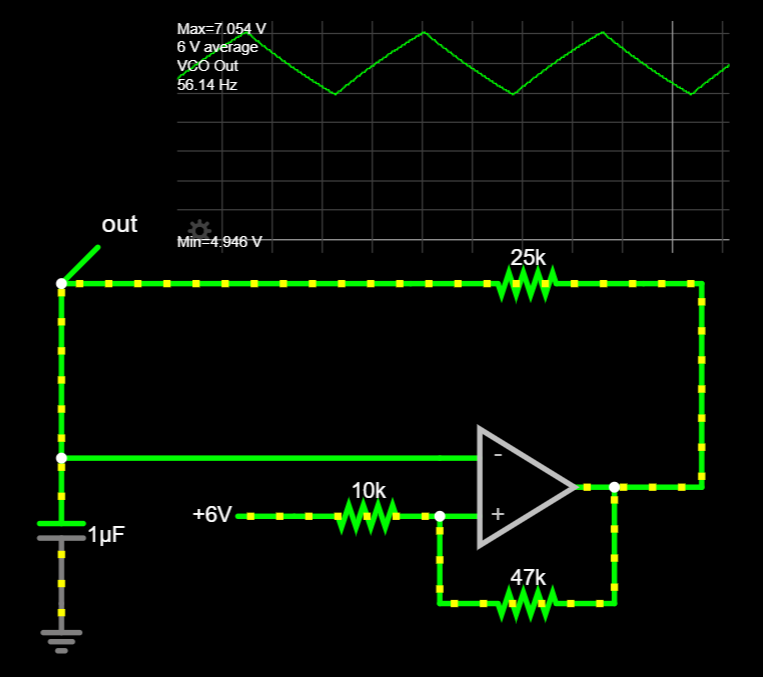
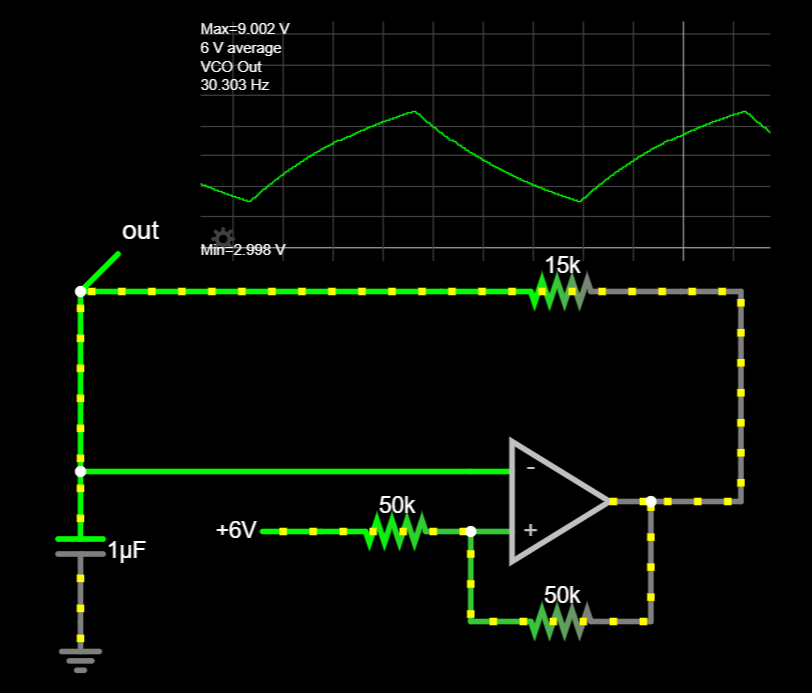
triangle osc done

diff --git a/index.md b/index.md
@@ -1,14 +1,21 @@
 <h1 align="center">AES Synthesizer System Design</h1>
 
-# 0.0 Promises
-This is a big document, and building a synthesizer is not an easy task. I'm not saying this to scare you away, but to prepare you: this will be a challenge. That said, it will be an extremely rewarding challenge, and a great accomplishment. Synthesizers combine knowledge from across an electrical engineering education, and building one requires applying your knowledge in a way that will solidify your understanding of electronics and make you a far better engineer. Of course, any difficult journey deserves proper motivation.
+# 0.0 The Goal (And What To Expect)
+Building a synthesizer is difficult. I'm not saying this to scare you away, but to prepare you: this will be a challenge. That said, it will be an extremely rewarding challenge, and a great accomplishment. Synthesizers combine knowledge from across an electrical engineering education, and building one requires applying your knowledge in a way that will solidify your understanding of electronics and make you a far better engineer. Of course, any difficult journey deserves proper motivation.
 
 By the end of this series, you will have a synthesizer consisting of four modules: an oscillator, amplifier, filter, and envelope generator (ADSR).
 
- The oscillator will be voltage-controlled, meaning it can be played via a power supply, Arduino, set of mechanical switches, or any other voltage output you desire. It will be capable of generating sawtooth waves from 20Hz - 3kHz, and you will have the knowledge to modify it to produce triangle and pulse-width signals, as well. In the process, you'll learn about operational amplifiers and comparators, relaxation oscillators, negative and positive feedback, hysteresis, transistor switches, 
- 
- The amplifier will also be voltage-controlled. You will be able to amplify signals as small as ~10mV so that they can be played on speakers. 
+The filter consists of a simple high- and low-pass stage, controllable via potentiometer knobs. This system applies the concepts of impedance and frequency-dependence, and we will have to make decisions as designers about sensitivity and filter range. The filter is not voltage-controlled, although you will be able to do this by the end of this series, by applying the fundamentals we cover in other subsystems.
 
+ The oscillator, by contrast, _is_ voltage-controlled. This means that the pitch can be set via an adjustable power supply, an Arduino, a set of mechanical switches, or any other voltage output we can control. It is capable of generating sawtooth waves from 20Hz - 3kHz, and you will have the knowledge to modify it to produce triangle and pulse-width signals, as well. In the process, you'll learn about operational amplifiers and comparators, relaxation oscillators, negative and positive feedback, hysteresis, transistor switches, as well as parasitics and other real-world implementation concerns.
+ 
+ The amplifier is also voltage-controlled, and will amplify tiny signals (~10mV) so that they can be played on our speakers. This subsystem will teach you about differential pairs, AC analysis, the transistor "linear" operation, and component matching.
+
+ Finally, the envelope generator is a "triggered" circuit that uses resistor-capacitor (RC) networks to create predictable, controllable time-varying voltage signals, giving the full ADSR control. By the time we get here, you'll have a lot of knowledge and practice at building circuits, so this is the most "flexible" design — you'll get to make a lot of decisions that will shape the sound and how your synth responds to user input. This section will teach concepts of ADSR, RC time constants, inverting and summing op-amps, and transistor discrete logic.
+
+ In total, this series will familiarize you with content from the introductory Circuits series, as well as EE 306/307/308, and 409. The list of topics covered makes this sound like a project for 3rd- or 4th-year students in Electrical Engineering, but the whole point of this project is that you don't need those classes (yet!) to get started building synthesizers. Most people, with a bit of effort, can understand the fundamentals of how these systems work. In the process, you'll get to build something really special: your own DIY synth.  
+
+  
 # 1.0 Fundamentals
 
 ## Electronics
@@ -127,7 +134,7 @@ Check the output using an oscilloscope to verify it is not too large (1Vpp) and 
 This is what your breadboarded circuit might look like:
 <img src="res/speaker-buffer-bb.png" height=300 />
 
-If it works, congratulations! You're ready to listen to signals!
+You're ready to listen to signals!
 
 
 ## The Filter
@@ -143,23 +150,152 @@ The oscillator is the core of any synthesizer, generating periodic signals that 
 | **Output:** | Sinusoidal | Non-linear (square / triangle / saw) |
 | **Example:** | ![](res/signal-example-harmonic.png) | ![](res/signal-example-relaxation.png) |
 
-While many synthesizers can output sinusoidal signals, sinusoids lack harmonics and therefore provide limited options for shaping the sound using subtractive filters. Therefore, we should look for a relaxation oscillator, which will produce a waveform that is rich in harmonics. 
+While many synthesizers can output sinusoidal signals, sinusoids lack harmonics and therefore provide limited options for shaping the sound using subtractive filters. Therefore, we will build a relaxation oscillator, which can produce a waveform that is rich in harmonics. 
 
-Sawtooths are frequently preferred for synthesis because they contain both even and odd harmonics, giving additional flexibility when shaping signals through a filter.[^mit_syw] (For a review, refer to [Basic Waveforms](#basic-waveforms).) A sawtooth core also provides flexibility for further development down the line, as it can be processed to produce other waveforms such as rectangular and triangle waves. 
+Sawtooths are frequently preferred for synthesis because they contain both even and odd harmonics, giving additional flexibility when shaping signals through a filter.[^mit_syw] (For a review of waveform harmonics, refer to [Basic Waveforms](#basic-waveforms).) A sawtooth core also provides flexibility for further development down the line, as it can be processed to produce other waveforms such as rectangular and triangle waves. 
 
-A quick Google search will provide many relaxation oscillator designs. We will use a relatively simple sawtooth core design sourced from [Moritz Klein's YouTube channel](https://www.youtube.com/watch?v=QBatvo8bCa4). However, before we are ready to understand how it works, we need to learn about comparators, op-amps, and feedback networks.
+A quick Google search will provide many relaxation oscillator designs. We will use a relatively simple sawtooth core design sourced from [Moritz Klein's YouTube channel](https://www.youtube.com/watch?v=QBatvo8bCa4). In order to understand how it works, we need to learn about comparators and hysteresis.
 
-### Comparators and Op-Amps
+### Comparators
+Comparators can be thought of as a subset of a more general device we'll examine first, called an "operational amplifier." These devices have two inputs (the non-inverting **In+**, and the inverting input **In-**) and a single output (**Out**), and are represented in schematics by a triangle like so: 
 
+<img src="res/ideal-opamp.jpg" height=200 />
 
-### Building To The Triangle Core
-The sawtooth core can be created via a design tweak to a simpler circuit which produces a triangle wave instead. This gives us an additional circuit, plus it is an easier circuit to examine before moving to a sawtooth core.
+The name "operational amplifier" (aka "opamp") originates from a component that can do mathematical _operations_ with amplification. Depending on its placement and configuration in the circuit, the operational amplifier can be made to perform a variety of computations, from basic arithmetic (eg. addition and subtraction) to advanced operations such as integration or differentiation. However, the output follows a simple formula which, in isolation, provides a principle of operation for us to understand:
+
+$$V_{out} = A_{opamp}*(V_+ - V_-)$$
+
+In the ideal case, op-amps have an _amplification_ ($A_{opamp}$) that is infinite, but even practical op-amps have enormous internal gain ($A$ ≈ $10^5$). Therefore, the opamp functions like so: take the difference of the two input voltages, multiply it by a really big number, and output that voltage. 
+
+You might imagine a few ways this could go:
+
+| $V_+$ | $V_-$ | $A*(V_+ - V_-)$ | $V_{out}$ |
+|-------|-------|---------------|-----------|
+| 5 | 3 | $10^5 * (2)$ | $2*10^5$ |
+| 3 | 5 | $10^5 * (-2)$ | $-2*10^5$ |
+| -5 | 3 | $10^5 * (-8)$ | $-8*10^5$ |
+| 5 | -3 | $10^5 * (8)$ | $8*10^5$ |
+| -5 | -3 | $10^5 * (-2)$ | $-2*10^5$ |
+
+In reality, the op-amp will _try_ to output the necessary voltage, but it is limited by the power supplies (the "rails"). In our case, our circuits run on ±12V, so instead of reaching voltages ~ $10^5$, the opamp in each given case above outputs either a positive or negative 12V. 
+
+| $V_+$ | $V_-$ | $A*(V_+ - V_-)$ | $V_{out}$ |
+|-------|-------|---------------|-----------|
+| 5 | 3 | $10^5 * (2)$ | +12V |
+| 3 | 5 | $10^5 * (-2)$ | -12V |
+| -5 | 3 | $10^5 * (-8)$ | -12V |
+| 5 | -3 | $10^5 * (8)$ | +12V |
+| -5 | -3 | $10^5 * (-2)$ | -12V |
+
+Notice that the output depends solely on the sign of $(V_+ - V_-)$. This setup is called a "comparator" topology, and it is this operation that the comparator excels at: the output is only "HIGH" or "LOW", and depends solely on a comparison of one input vs the other. 
+
+Look at the figure below, and check out [this Falstad simulation](https://tinyurl.com/2pw6lrbk) of the comparator topology, to check your intuition about how this works.
+
+<img src="res/opamp-twoinputs.png" height=300 />
+
+_Different inputs cause the opamp output to hit either rail, depending on ($V_+ - V_-$) [[Falstad]](https://tinyurl.com/2jkduams)_
+
+(Side-note: Falstad doesn't have a "comparator" part, and in fact, these simulations all use op-amps. However, because a comparator is a subset of operational amplifiers (where the "operation" is comparison), you can sometimes use an op-amp to represent a comparator. In fact, some designers even use op-amp ICs in place of comparators! (As we'll eventually discover, though, this can be bad practice, and if your op-amp is only being used to compare (by swinging to the rails), a comparator is a better choice.)
+
+#### Comparators With Reference
+While comparator setups could be used to compare any two voltages, typical implementations set one of the inputs as a fixed value, to which the other input is compared. For example, we can check whether a signal is higher than 3V by setting the inverting (-) input to a "trip point" of 3V. This makes $V_- = 3$, such that the output swings "high" to the positive rail when $(V_+ - V_-) = (V_+ - 3) > 0$.
+
+<img src="res/opamp-comparator-ref.png" height=300 />
+
+_Comparator with reference at 3V. Input sweeps [-5V,5V]. [[Falstad]](https://tinyurl.com/2kqvkuxf)_
+
+Typically, the reference level doesn't simply *exist* — that is, we have ±12V rails, but we wouldn't want to get a new power supply every time we need to make a comparison! (Eg. We might want to compare against 1V, 3V, 5V, etc.) Instead, common practice is to use [voltage dividers](#voltage-divider) or [zener diodes](#diodes) to set the comparator reference, while the other input is variable. This allows us to set any voltage within the rails as our reference.
+
+<img src="res/opamp-comparator-ref-vdiv.png" height=300 />
+
+_Setting the reference to 3V via voltage dividers [[Falstad]](https://tinyurl.com/2f42ud68)_
+
+#### Hysteretic Comparators
+What if we wanted more than one trip point? That is, what if we wanted the comparator output to swing "high" at one voltage, but swing "low" at a different voltage? This is known as "hysteresis", and will take some setup conceptually; however, physically it is simple to achieve. Importantly, this is the key to creating a relaxation oscillator!
+
+First, we need to develop our intuition about what a voltage divider does. Imagine a voltage divider as "dividing" the voltage between two points. Typically, this is a fixed voltage rail, such as our 12V VCC, and GND; the output exists between the two resistors and depends on their ratio. However, what if we moved this second side, so that it wasn't connected to GND? In that case, the output would still be set "between" the two resistors, but with the endpoints shifted. You can see this principle demonstrated in the three voltage dividers below, where (due to the equal resistances) the output voltage is always halfway between the endpoints.
+
+<img src="res/voltage-div-shifting.png" height=300/>
+
+In general, given two endpoints $V_2$ and $V_1$:
+
+$$V_{out} = V_1\frac{R_1}{R_1+R_2} + V_2\frac{R_2}{R_1 + R_2}$$
+
+[(Click here for the simple proof!)]()
+
+This is important because we already have two possible outputs from our comparator: "high" & "low" (±12V). If we tie the comparator output to one end of the voltage divider, then the voltage divider will similarly shift its output. We can use this to set a changing reference value (or "trip" point) at the comparator's input.
+
+<img src="res/hysteretic-divider.gif" height=300 />
+
+This technique of using the output to influence one of the inputs is called "feedback". We'll dive into feedback more when we look further into op-amps, but for now, know that hysteresis uses _positive_ feedback, meaning that we must use the non-inverting (+) input as our reference.
+
+Applying this to the comparator circuit, we arrive at a *hysteretic* comparator, with two different trip points. Just like the voltage divider above, you can see below that the non-inverting (+) reference input (red line) maintains a "divided" value between the comparator output and GND, creating a variable trip point. Open the simulation below to change the resistor ratio and see how the trip points move!
+
+<img src="res/hysteretic-comparator.png" height=300 />
+
+_Hysteretic comparator with trip points at ±6V. [[Falstad]](https://tinyurl.com/2k9ohuqg)_
+
+As you might guess, because the voltage divider is symmetric about 0V, changing the resistor values will shift where this trip point occurs on both the "high" and "low" sides. These thresholds form a "hysteretic window", which are the transition threshold values that the input must reach in order to "trip" the comparator output to the other extreme. 
+
+In addition to moving trip points nearer or further apart (expanding or collapsing the window), we can also bias the resistive divider about a point other than 0V to further alter the behavior. 
+
+This makes the complete formula describing our trip point thresholds:
+
+$$V_{trip,low} = V_{bias}\frac{R_{in}}{R_{in}+R_f} + V_{comp,low}\frac{R_f}{R_{in}+R_f}$$
+
+$$V_{trip,high} = V_{bias}\frac{R_{in}}{R_{in}+R_f} + V_{comp,high}\frac{R_f}{R_{in}+R_f}$$
+
+where
+- $V_{comp} = $ comparator output voltage (at low or high, respectively)
+- $R_{in} =$ input resistor (nearest the bias voltage)
+- $R_f =$ feedback resistor (connecting output to input)
+
+For example, if we set the input bias to 6V instead of 0V, then (using the formula from before) our trip points will move to:
+
+$$V_{out,high} = 12\frac{50k}{100k} + 6\frac{50k}{100k} = 9V$$
+
+$$V_{out,low} = -12*\frac{50k}{100k} + 6\frac{50k}{100k} = -3V$$
+
+<img src="res/hysteretic-comp-6v-offset.png" height=300 />
+
+_Hysteretic comparator with biased reference about 6V. [[Falstad]](https://tinyurl.com/2hyqy4zb)_
+
+Finally, we can modify the comparator output by changing its power connections from ±12V to something else. Note that this changes $V_{comp}$ appropriately, and is yet another factor altering the trip points.
+
+### First Oscillator: The Triangle Core
+
+It's time to make our first oscillator! We have most of the circuit already — in fact, this is the complete schematic for a basic triangle core.
 
 <img src="res/tri-core-falstad.png" height=300 />
 
-_[Triangle Core [Falstad]](https://tinyurl.com/22u8pzbx)_
+_The triangle oscillator core [[Falstad]](https://tinyurl.com/2qcdnmht)_
+
+Importantly, the above circuit uses +12V and 0V, and **not** -12V, for powering the comparator. This is important because it shifts the point of symmetry for the hysteretic window from 0V to 6V.
+
+ You should recognize the hysteretic comparator circuit from before. As noted in the previous section, the change in power to +12V/0V alters $V_{comp,low}, altering the trip points. However, with the bias point set at 6V, the voltage divider in the positive feedback path is once again symmetric, so trip points are evenly spaced about 6V. 
+
+ It may take a bit more time to process how the new circuitry creates an oscillator, but you already know everything you need to understand it.
+ 
+ Previously, we supplied a sine input at the inverting (-) terminal, which the comparator responded to. However, we could supply any input, as long as it eventually hits the trip points that the comparator needs to change its output. (Go back and run the simulation, changing the input source to a triangle or sawtooth.) 
+ 
+ The comparator always outputs either "high" or "low" — in this case, +12V or 0V — so we can think of it as creating a rudimentary voltage supply. If we connect this output to an RC network, we'll get a capacitor that charges and discharges according to an RC time constant, τ, proportional to the values of R and C. This looks roughly the same as a voltage source input, and therefore provides the hysteretic comparator with the ability to oscillate!
+ 
+ You'll find that $R_{charge}$ in the feedback path sets the oscillation frequency, by limiting current flow to the capacitor. However, the trip points _also_ affect oscillation frequency by controlling how far the capacitor must charge/discharge to trip the comparator. That said, they should not be used to vary the oscillation frequency. Larger hysteretic windows cause the RC response to become more "exponential" as the trip points move closer to the comparator rails. For a better "triangle" shape that looks linear, set the trip points closer together, so that they occupy a smaller fraction of the RC charging/discharging graph. For example, charging a capacitor from 5V to 7V has an imperceptible curve and will appear perfectly linear.
+
+ <img src="res/rc-charge-discharge.png" height=300 />
+
+You can (and should) try to build this oscillator before moving on. Although we are using it as a stepping stone to a sawtooth oscillator, you could implement it as an oscillator to use in your final synth!
+
+Despite the achievement of the triangle oscillator core, it does have some shortcomings. These don't make it useless — you could do a lot with it, and could certainly include it in the final build — but it does limit the final synth design.
+
+Most notably, one of our goals for an oscillator should be to have voltage control, and the triangle oscillator makes this difficult because it both charges *and* discharges along the same resistor. Our path to voltage control will use transistors, and having a resistor with a single direction of current flow will make this upgrade possible.
+
+In the next section, we'll turn the triangle core into a sawtooth oscillator.
 
 ### The Sawtooth Core
+
+
+
 The sawtooth core begins with the simple circuit below, which consists of a single capacitor, a diode, a comparator, and a few resistors. Depending on component values, it can reach frequencies as low as 10-20Hz, and as high as several kHz.
 
 <img src="res/saw-core-falstad.png" height=300 />
